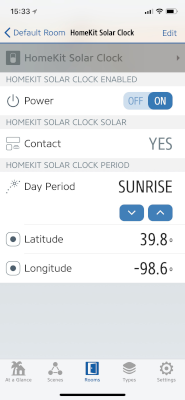
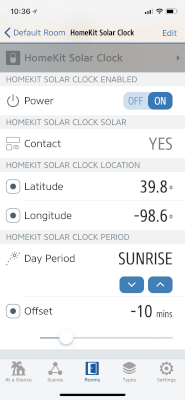
Add "offset" parameter and fix typos!

diff --git a/src/SolarClockAccessory.js b/src/SolarClockAccessory.js
@@ -63,6 +63,7 @@ class SolarClockAccessory {
       this.getAccessoryInformationService(),
       this.getBridgingStateService(),
       this.getSolarService(),
+      this.getSolarLocationService(),
       this.getEnabledSwitchService(),
       this.getContactSensorService()
     ];
@@ -87,9 +88,7 @@ class SolarClockAccessory {
   }
 
   getSolarService() {
-    this._solarService = new Service.Solar(`${this.name} Period`)
-      .setCharacteristic(Characteristic.SolarLatitude, this.location.latitude)
-      .setCharacteristic(Characteristic.SolarLongitude, this.location.longitude);
+    this._solarService = new Service.Solar(`${this.name} Period`);
     this._solarService.getCharacteristic(Characteristic.SolarPeriod)
       .on('set', this._setPeriod.bind(this))
       .updateValue(this._state.period);
@@ -98,6 +97,14 @@ class SolarClockAccessory {
       .updateValue(this._state.offset);
 
     return this._solarService;
+  }
+
+  getSolarLocationService() {
+    this._solarLocationService = new Service.SolarLocation(`${this.name} Location`)
+      .setCharacteristic(Characteristic.SolarLatitude, this.location.latitude)
+      .setCharacteristic(Characteristic.SolarLongitude, this.location.longitude);
+
+    return this._solarLocationService;
   }
 
   getEnabledSwitchService() {
@@ -177,58 +184,28 @@ class SolarClockAccessory {
 
   _scheduleSolarClock() {
     ///////////////////////////////////////////////////////////////////////////////////////////
-    // algorithm taken from https://github.com/kcharwood/homebridge-suncalc
+    // algorithm based on https://github.com/kcharwood/homebridge-suncalc
     ///////////////////////////////////////////////////////////////////////////////////////////
 
-    const nowDate = new Date();
-    const now = nowDate.getTime();
+    const today = new Date();
+    const now = today.getTime();
+    const solarTime = Characteristic.SolarPeriod._SolarTimes[this._state.period];
 
-    const sunDates = suncalc.getTimes(nowDate, this.location.latitude, this.location.longitude);
-    const times = {
-      nightEnd: sunDates.nightEnd.getTime(),
-      nauticalDawn: sunDates.nauticalDawn.getTime(),
-      dawn: sunDates.dawn.getTime(),
-      sunrise: sunDates.sunrise.getTime(),
-      sunriseEnd: sunDates.sunriseEnd.getTime(),
-      sunsetStart: sunDates.sunsetStart.getTime(),
-      sunset: sunDates.sunset.getTime(),
-      dusk: sunDates.dusk.getTime(),
-      nauticalDusk: sunDates.nauticalDusk.getTime(),
-      night: sunDates.night.getTime()
-    };
+    let sunDates = suncalc.getTimes(today, this.location.latitude, this.location.longitude);
+    let timeout = sunDates[solarTime].getTime() + (this._state.offset * 60 * 1000);
+    let diff = timeout - now;
 
-    let solarPeriod = 0;
-    let nextUpdate;
-
-    if (now < times.dawn) {
-      nextUpdate = times.dawn;
-    } else if (now >= times.dawn && now < times.sunrise) {
-      nextUpdate = times.sunrise;
-      solarPeriod = 1;
-    } else if (now >= times.sunrise && now < times.sunriseEnd) {
-      nextUpdate = times.sunriseEnd;
-      solarPeriod = 2;
-    } else if (now >= times.sunriseEnd && now < times.sunsetStart) {
-      nextUpdate = times.sunsetStart;
-      solarPeriod = 3;
-    } else if (now >= times.sunsetStart && now < times.sunset) {
-      nextUpdate = times.sunset;
-      solarPeriod = 4;
-    } else if (now >= times.sunset && now < times.dusk){
-      nextUpdate = times.dusk;
-      solarPeriod = 5;
-    } else {
+    if (timeout <= now) {
       const tomorrow = new Date();
 
       tomorrow.setDate(tomorrow.getDate() + 1);
-      nextUpdate = suncalc.getTimes(tomorrow, this.location.latitude, this.location.longitude).dawn.getTime();
+      sunDates = suncalc.getTimes(tomorrow, this.location.latitude, this.location.longitude);
+      timeout = sunDates[solarTime].getTime() + (this._state.offset * 60 * 1000);
+      diff = timeout - now;
     }
 
-    this.log(`Current Solar Period ${solarPeriod}`);
-    if (this._state.period === solarPeriod) this._solar();
-
-    this.log(`Time to next update ${nextUpdate - now}ms`);
-    this._timer = setTimeout(this._scheduleSolarClock.bind(this), nextUpdate - now);
+    this.log(`Raising next solar timer for ${solarTime} at ${new Date(timeout).toLocaleString()} in ${Math.round(diff / (60 * 1000))}mins`);
+    this._timer = setTimeout(this._solar.bind(this), diff);
   }
 
   _solar() {

diff --git a/src/hap/SolarTypes.js b/src/hap/SolarTypes.js
@@ -94,18 +94,27 @@ module.exports = {
     inherits(Characteristic.SolarPeriod, Characteristic);
     Characteristic.SolarPeriod.UUID = '4D640A06-34FE-45D7-BF7C-736BB2CF5693';
     Characteristic.SolarPeriod._SolarPeriods = SolarPeriods;
+    Characteristic.SolarPeriod._SolarTimes = [ 'night', 'dawn', 'sunrise', 'sunriseEnd', 'sunsetStart', 'sunset' ];
 
 
     Service.Solar = function (displayName, subtype) {
       Service.call(this, displayName, Service.Solar.UUID, subtype);
 
       // Required Characteristics
-      this.addCharacteristic(Characteristic.SolarLatitude);
-      this.addCharacteristic(Characteristic.SolarLongitude);
-      this.addCharacteristic(Characteristic.SolarMinutesOffset);
       this.addCharacteristic(Characteristic.SolarPeriod);
+      this.addCharacteristic(Characteristic.SolarMinutesOffset);
     };
     inherits(Service.Solar, Service);
     Service.Solar.UUID = 'F9305C45-DBC5-4BD1-B4DA-C67A495288CD';
+
+    Service.SolarLocation = function (displayName, subtype) {
+      Service.call(this, displayName, Service.SolarLocation.UUID, subtype);
+
+      // Required Characteristics
+      this.addCharacteristic(Characteristic.SolarLatitude);
+      this.addCharacteristic(Characteristic.SolarLongitude);
+    };
+    inherits(Service.SolarLocation, Service);
+    Service.SolarLocation.UUID = '0C982673-8293-4CE4-8AC3-9371980D81A7';
   }
 };

diff --git a/docs/SolarClock.md b/docs/SolarClock.md
@@ -6,8 +6,7 @@ It is based on the [Alarm Clock](AlarmClock.md) timer.
 
 ## Appearance
 
-The alarm clock provides an on/off toggle switch, and a contact sensor to indicate the alarm
-Future versions may include a offset (e.g., for "10 minutes before Sunrise").
+The solar clock provides an on/off toggle switch, and a contact sensor to indicate the event.
 
 ![Preview](SolarClock.png "Preview")
 
@@ -29,6 +28,7 @@ Future versions may include a offset (e.g., for "10 minutes before Sunrise").
           "name": "HomeKit Solar Clock",
           "location": { "latitude": 39.833333, "longitude": -98.585522 },
           "period": "sunrise",
+          "offset": -10,
           "enabled": true
         }
       ]
@@ -37,20 +37,21 @@ Future versions may include a offset (e.g., for "10 minutes before Sunrise").
 }
 ```
 
-The above example creates an alarm clock, which by default closes the contact sensor every day at sunrise for the geographic
-center of the United States.
+The above example creates an solar clock,
+which by default closes the contact sensor every day at ten minutes before sunrise for the geographic center of the
+United States.
 
 ## Options
 
 | Field | Required | Description |
 |---|---|---|
-| type | Yes | Set this to ```solarclock``` to make this entry an alarm clock. |
-| name | Yes | Set this to the name of the alarm clock as you want it to appear in HomeKit apps. |
+| type | Yes | Set this to ```solarclock``` to make this entry a solar clock. |
+| name | Yes | Set this to the name of the solar clock as you want it to appear in HomeKit apps. |
 | stored | No | Set this to true if you want the switch to retain its settings across restarts. The default is  ```false```. |
 | location | Yes |Set this to the location for making solar calculations. |
-| period | Yes | Set this to the solar period to trigger the alarm. One of:```"night"```, ```"morning twilight"```, ```"sunrise"```, ```"daytime"```, ```"sunset"```, or ```"evening twilight"```. |
-| offset | No | Set this to the offset in minutes from the start of the period. The default is ```0```. **Not yet implemented.** |
-| enabled | Yes | The default enabled state of the alarm. |
+| period | Yes | Set this to the solar period to trigger the solar clock. One of:```"night"```, ```"morning twilight"```, ```"sunrise"```, ```"daytime"```, ```"sunset"```, or ```"evening twilight"```. |
+| offset | No | Set this to the offset in minutes from the start of the period. The default is ```0```.
+| enabled | Yes | The default enabled state of the solar clock. |
 
 The defaults are only used if the stored state is unavailable.
 
@@ -63,5 +64,5 @@ the same time-related considerations for the [Alarm Clock](AlarmClock.md) timer 
 
 ## Usage
 
-The contact sensor of the above solar clock is closed every day at sunrise. Attach a HomeKit rule to the contact sensor to
-execute any actions as you wish and apply conditions to the rule if needed.
+The contact sensor of the above solar clock is closed every day at ten minutes before sunrise.
+Attach a HomeKit rule to the contact sensor to execute any actions as you wish and apply conditions to the rule if needed.
